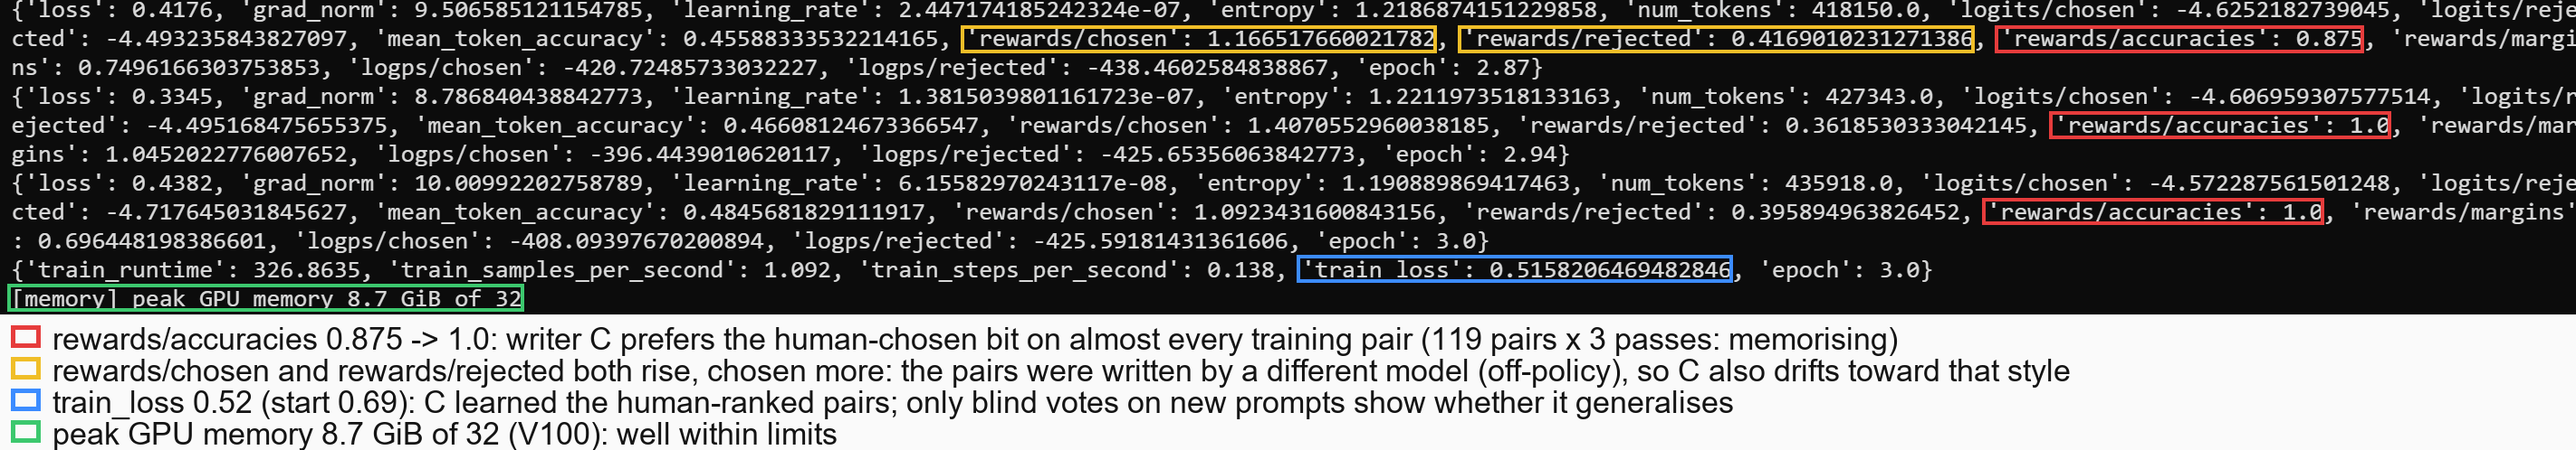
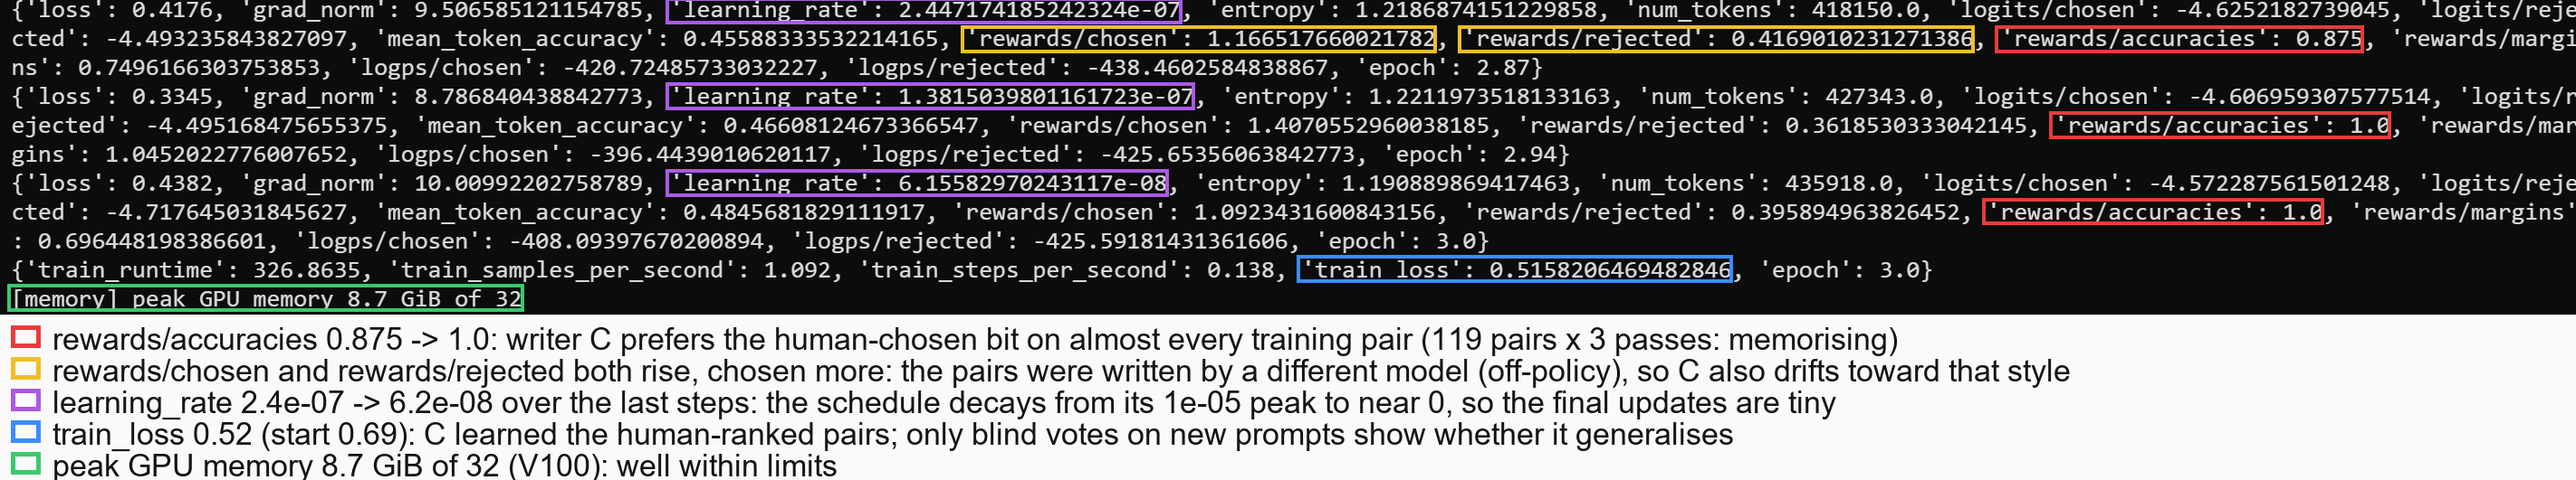
docs(train): :camera_flash: mark writer C's decayed learning rate in the end-of-run figure
The last steps update with a rate near 0 (6e-08 from a 1e-05 peak), which
the report needs to explain why the final steps barely move the model.

diff --git a/tests/test_dpo_train.py b/tests/test_dpo_train.py
@@ -402,6 +402,7 @@ def test_the_modelfile_keeps_the_template_and_parameters_and_swaps_the_weights()
 
 
 def test_the_command_line_writes_a_modelfile_and_prints_the_power_table(tmp_path, monkeypatch, capsys):
+    monkeypatch.delenv("JOKE_WRITER_PROVIDER", raising=False)  # main() sets it on os.environ; monkeypatch undoes that after the test
     base = tmp_path / "Modelfile.base"
     base.write_text(BASE_MODELFILE, encoding="utf-8")
     monkeypatch.setattr(sys, "argv", ["dpo_pairs", "modelfile", "--base", str(base), "--gguf", "x/humor-qwen3-C-Q4_K_M.gguf", "--out", str(tmp_path / "Modelfile.C")])

diff --git a/tests/test_recording.py b/tests/test_recording.py
@@ -247,6 +247,8 @@ def test_sessions_are_gitignored(name):
 def test_llm_without_its_settings_says_what_to_set(monkeypatch):
     monkeypatch.delenv("LLM_BASE_URL", raising=False)
     monkeypatch.delenv("GEMINI_BASE_URL", raising=False)
+    monkeypatch.delenv("JOKE_WRITER_PROVIDER", raising=False)
+    monkeypatch.delenv("JOKE_WRITER_MODEL", raising=False)
     monkeypatch.setenv("LLM_MODEL", "m")
     with pytest.raises(RuntimeError, match=r"GEMINI_BASE_URL.*--env-file"):
         llm.from_env()

diff --git a/explorer/train_common.py b/explorer/train_common.py
@@ -1,4 +1,6 @@
 """Shared by train_sft.py and train_dpo.py: data, model, LoRA, the stop-on-NaN and time-limit callbacks, version printing."""
+from __future__ import annotations
+
 import dataclasses
 import json
 import math
